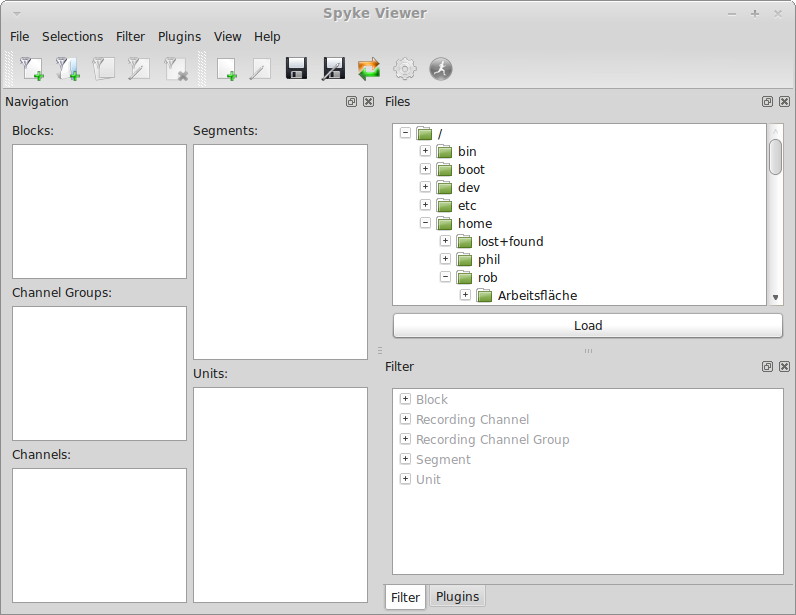
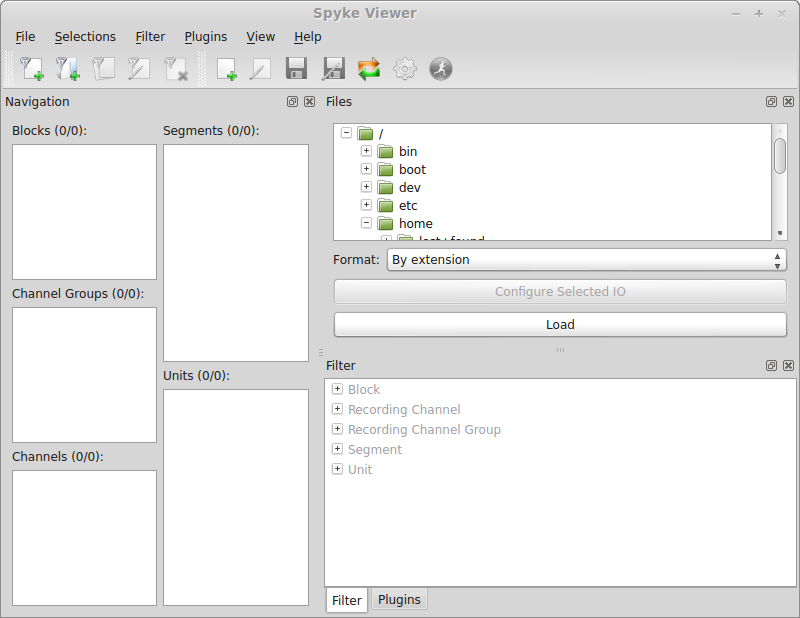
Documentation update: Lazy features, forced IO classes

diff --git a/doc/source/usage.rst b/doc/source/usage.rst
@@ -27,40 +27,25 @@ use it to select one or more files, then click on the "Load" button below to
 load the selected files into Spyke Viewer. Single files can also be loaded
 with a double click (this does not work for directories, they will just be
 expanded. If you want to load a directory, you need to use the "Load" button).
-For each selected file, the filetype is selected
-automatically from the extension. Alternatively, you can use the "Load
-Data..." option in the "File" menu to open a dialog that allows you to
-select files to load. Now find and select the file "sample.h5"
-that you just unpacked (an HDF5 File) and load it.
+Alternatively, you can use the "Load Data..." option in the "File" menu to
+open a dialog that allows you to select files to load. Now find and select
+the file "sample.h5" that you just unpacked (an HDF5 File) and load it.
 
 The data file input/output is based on :mod:`neo` and supports formats that
 have a
-`Neo IO class <http://neo.readthedocs.org/en/latest/io.html>`_. If you want
-to use a file format that is not supported by Neo, you can write a plugin:
-:ref:`ioplugins`.
+`Neo IO class <http://neo.readthedocs.org/en/latest/io.html>`_. For each
+selected file, the filetype and corresponding IO class is selected
+automatically from the file extension. If you want to specify which IO class
+to use, you can do so in the "Format" list in the *Files* dock. When you
+select a format with read or write parameters, you can click "Configure
+selected IO" to change the parameters. The IO and parameters you choose in
+the *Files* dock are also used when loading files using the "File" menu. If
+you want to use a file format that is not supported by Neo, you can write a
+plugin: :ref:`ioplugins`.
 
-Lazy Loading
-############
-
-With lazy loading, only the structure of a file is loaded when you first
-open it, while big data chunks (e.g. signals, spike trains) are not.
-This can result in faster loading times and much reduced memory usage and
-enables you to use data files that are larger than your main memory. Spyke
-Viewer will load the required data automatically once it is needed. This
-means that while initial loading is faster, data access will be slower.
-You can switch between regular and lazy loading from the "File" menu under
-"Read Mode". The read mode affects newly loaded files and you can have
-both regularly and lazily loaded files opened at the same time. Not all
-Neo IOs support this feature (up to Neo 0.3.0, only the IO for HDF5 files
-does) - when using lazy mode with an unsopported IO, the file is loaded
-as in regular mode.
-
-There are two options for lazy loading in the menu: "Lazy Load" and
-"Cached Lazy Load". In "Lazy Load", data objects are loaded on request
-and discarded afterwards, so the memory usage stays low. In "Cached Lazy
-Load", data objects are inserted into the object hierarchy when they are
-requested, so they only have to be loaded once, but memory usage will grow
-when more data objects are used while the file is open.
+Spyke Viewer and Neo include some features to handle very large data sources
+that are larger than the main memory or take very long to load. If you want
+to learn about these features, go to :doc:`lazy`.
 
 .. _selections:
 

diff --git a/doc/source/lazy.rst b/doc/source/lazy.rst
@@ -1,0 +1,61 @@
+.. _lazy:
+
+Lazy Features
+-------------
+
+Spyke Viewer offers two ways to deal with very large files.
+
+Lazy Loading
+############
+
+With lazy loading, only the structure of a file is loaded when you first
+open it, while big data chunks (e.g. signals, spike trains) are not.
+This can result in faster loading times and much reduced memory usage and
+enables you to use data files that are larger than your main memory. Spyke
+Viewer will load the required data automatically once it is needed. This
+means that while initial loading is faster, data access will be slower.
+You can switch between regular and lazy loading from the "File" menu under
+"Read Mode". The read mode affects newly loaded files and you can have
+both regularly and lazily loaded files opened at the same time. Most
+Neo IOs do not support this feature (currently, only the IO for HDF5
+files does) - when using lazy mode with an unsopported IO, the file is loaded
+as in regular mode.
+
+There are two options for lazy loading in the menu: "Lazy Load" and
+"Cached Lazy Load". In "Lazy Load", data objects are loaded on request
+and discarded afterwards, so the memory usage stays low. In "Cached Lazy
+Load", data objects are inserted into the object hierarchy when they are
+requested, so they only have to be loaded once, but memory usage will grow
+when more data objects are used while the file is open.
+
+.. Note::
+    If you create your own plugins or use the integrated console with lazy
+    loading, you need to be aware that the data objects are only loaded
+    when accessed through a
+    DataProvider object (explained below). For example,
+    ``current.spike_trains()`` would return correctly loaded objects.
+    But ``current.segments()[0].spiketrains`` can contain lazy objects.
+    To be safe, always use the DataProvider to access the data objects
+    you are interested in.
+
+Lazy Cascading
+##############
+
+Lazy cascading goes one step further than lazy loading: Not even the complete
+structure of a file is loaded initially. When lazy cascading is active, each
+object is automatically loaded when first accessed. For example, if you load
+a file with multiple Blocks, the Segments of each Block are only loaded when
+you select the Block in Spyke Viewer and the Segments need to be displayed.
+Similarly, the spike trains of a segment are only loaded once they are
+accessed. In contrast to lazy loading, with lazy cascading objects are loaded
+automatically even if they are not accessed through a DataProvider. Once an
+object has been accessed using lazy cascading, it stays in memory, making
+future access faster but potentially filling up main memory. You can use lazy
+cascading and lazy loading without caching at the same time to mitigate this.
+You switch between regular and lazy cascading using "Cascade Mode" in the
+"File" menu. Like lazy loading, lazy cascading depends on support of the
+IO class and currently only works with the HDF5 IO. You can implement both
+in your own IO plugins, the
+`Neo documentation
+<http://neo.readthedocs.org/en/latest/io_developers_guide.html>`_
+describes what is needed.

diff --git a/doc/source/index.rst b/doc/source/index.rst
@@ -3,7 +3,7 @@ Welcome to the Spyke Viewer documentation!
 
 Spyke Viewer is a multi-platform GUI application for navigating, analyzing and
 visualizing electrophysiological datasets. It is based on the
-`Neo <http://neo.readthedocs.org>`_ framework, which enables it to load a wide
+`Neo <http://neo.readthedocs.org>`_ library, which enables it to load a wide
 variety of data formats used in electrophysiology. At its core, Spyke Viewer
 includes functionality for navigating Neo object hierarchies and performing
 operations on them.
@@ -28,6 +28,7 @@ Contents:
    plugins
    extending
    api
+   lazy
    changelog
    acknowledgements
 
